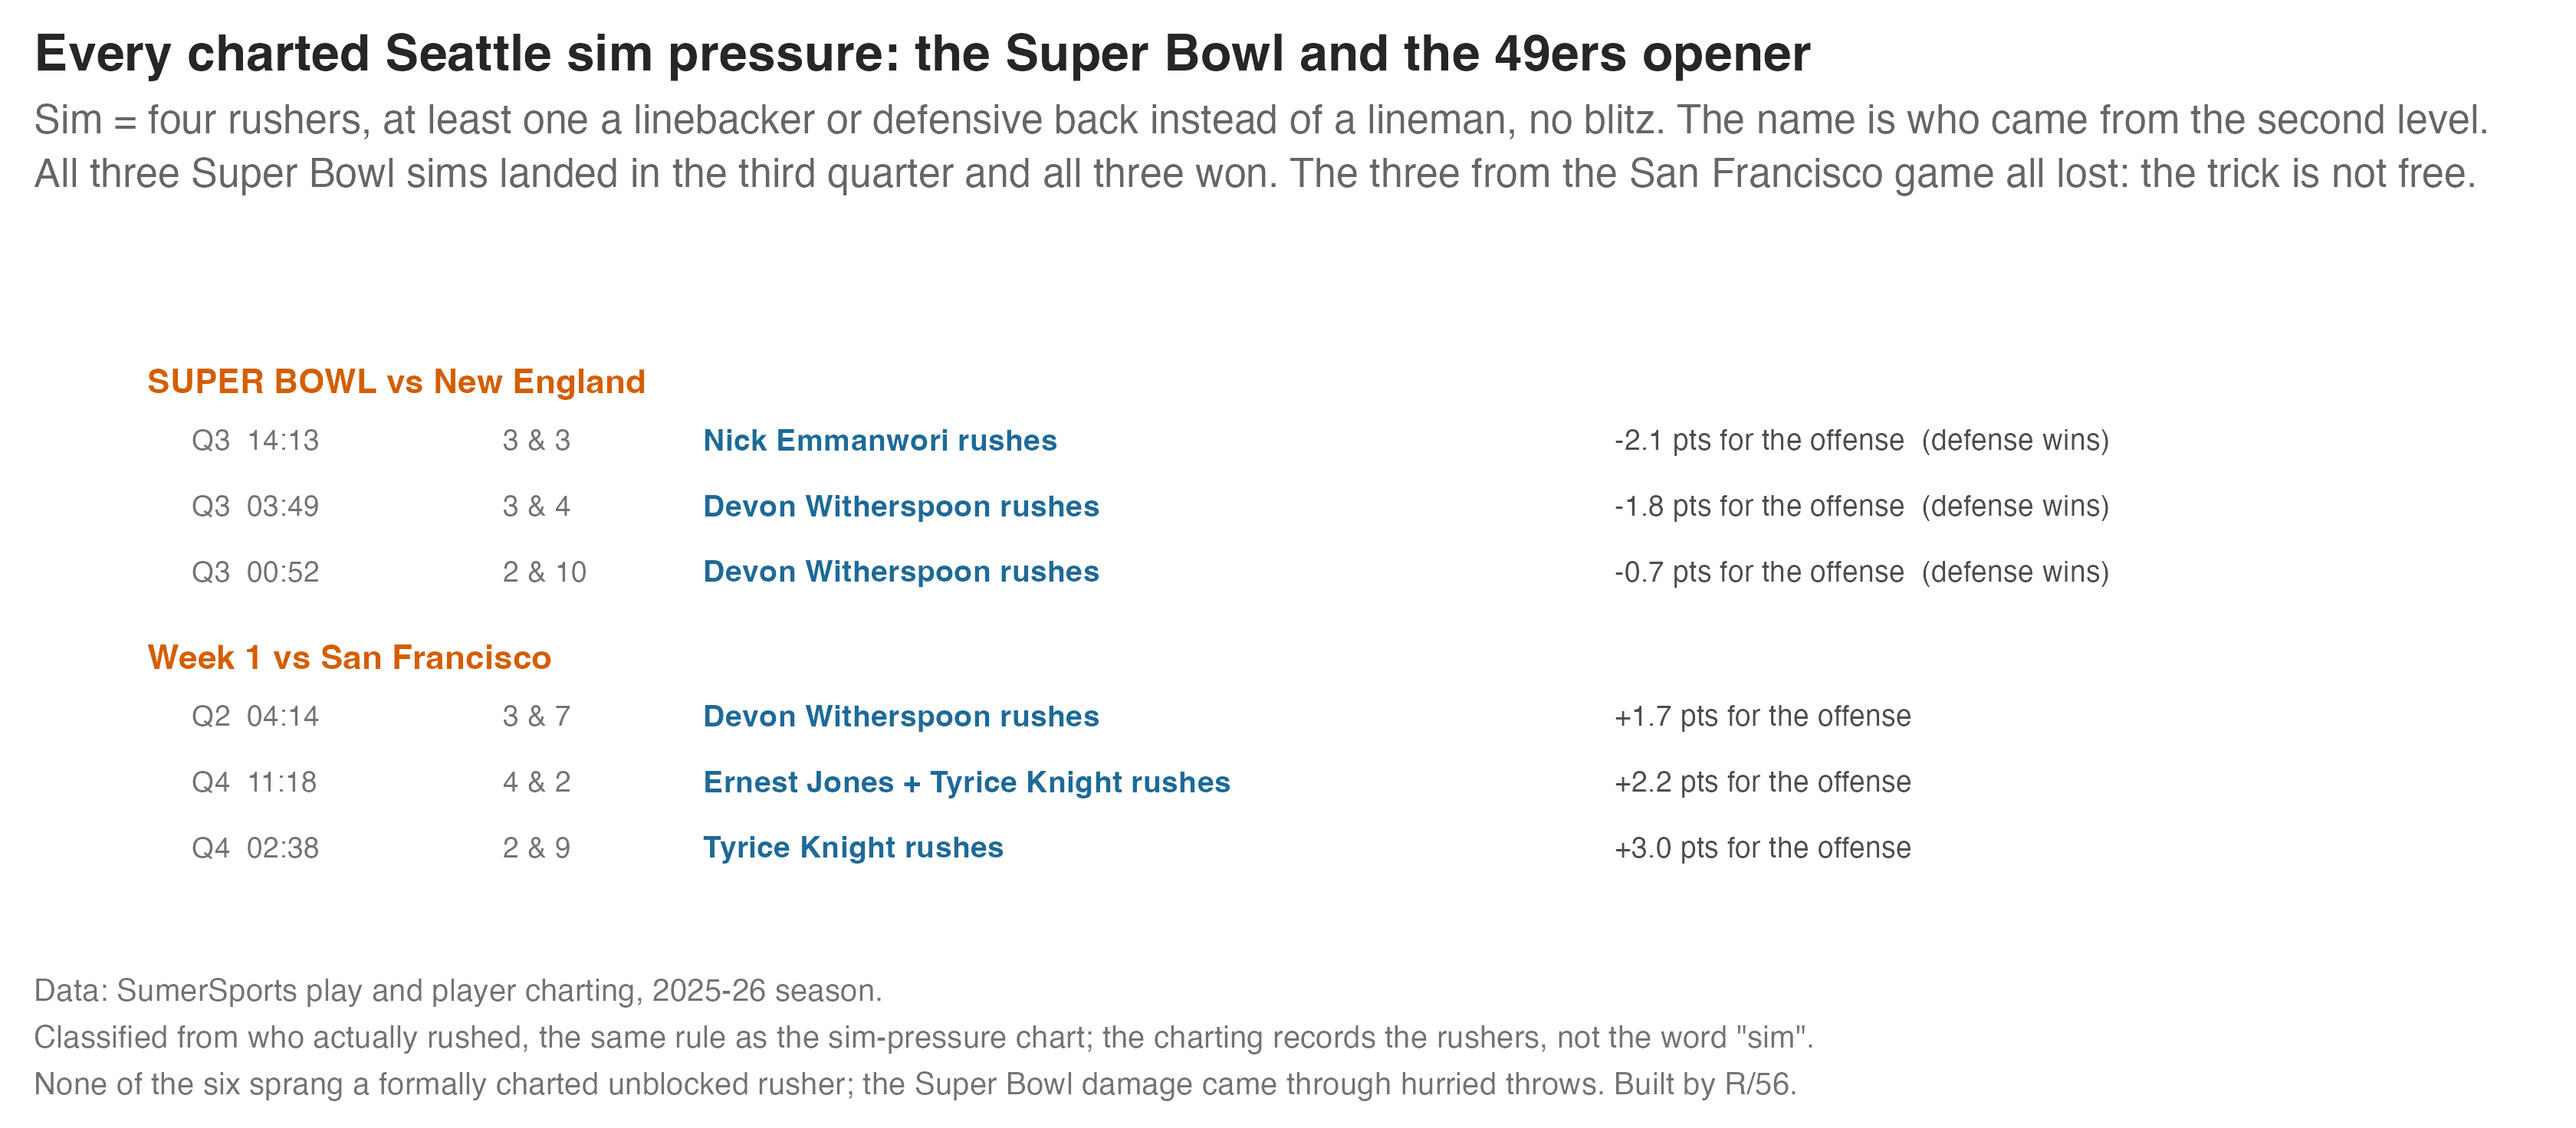
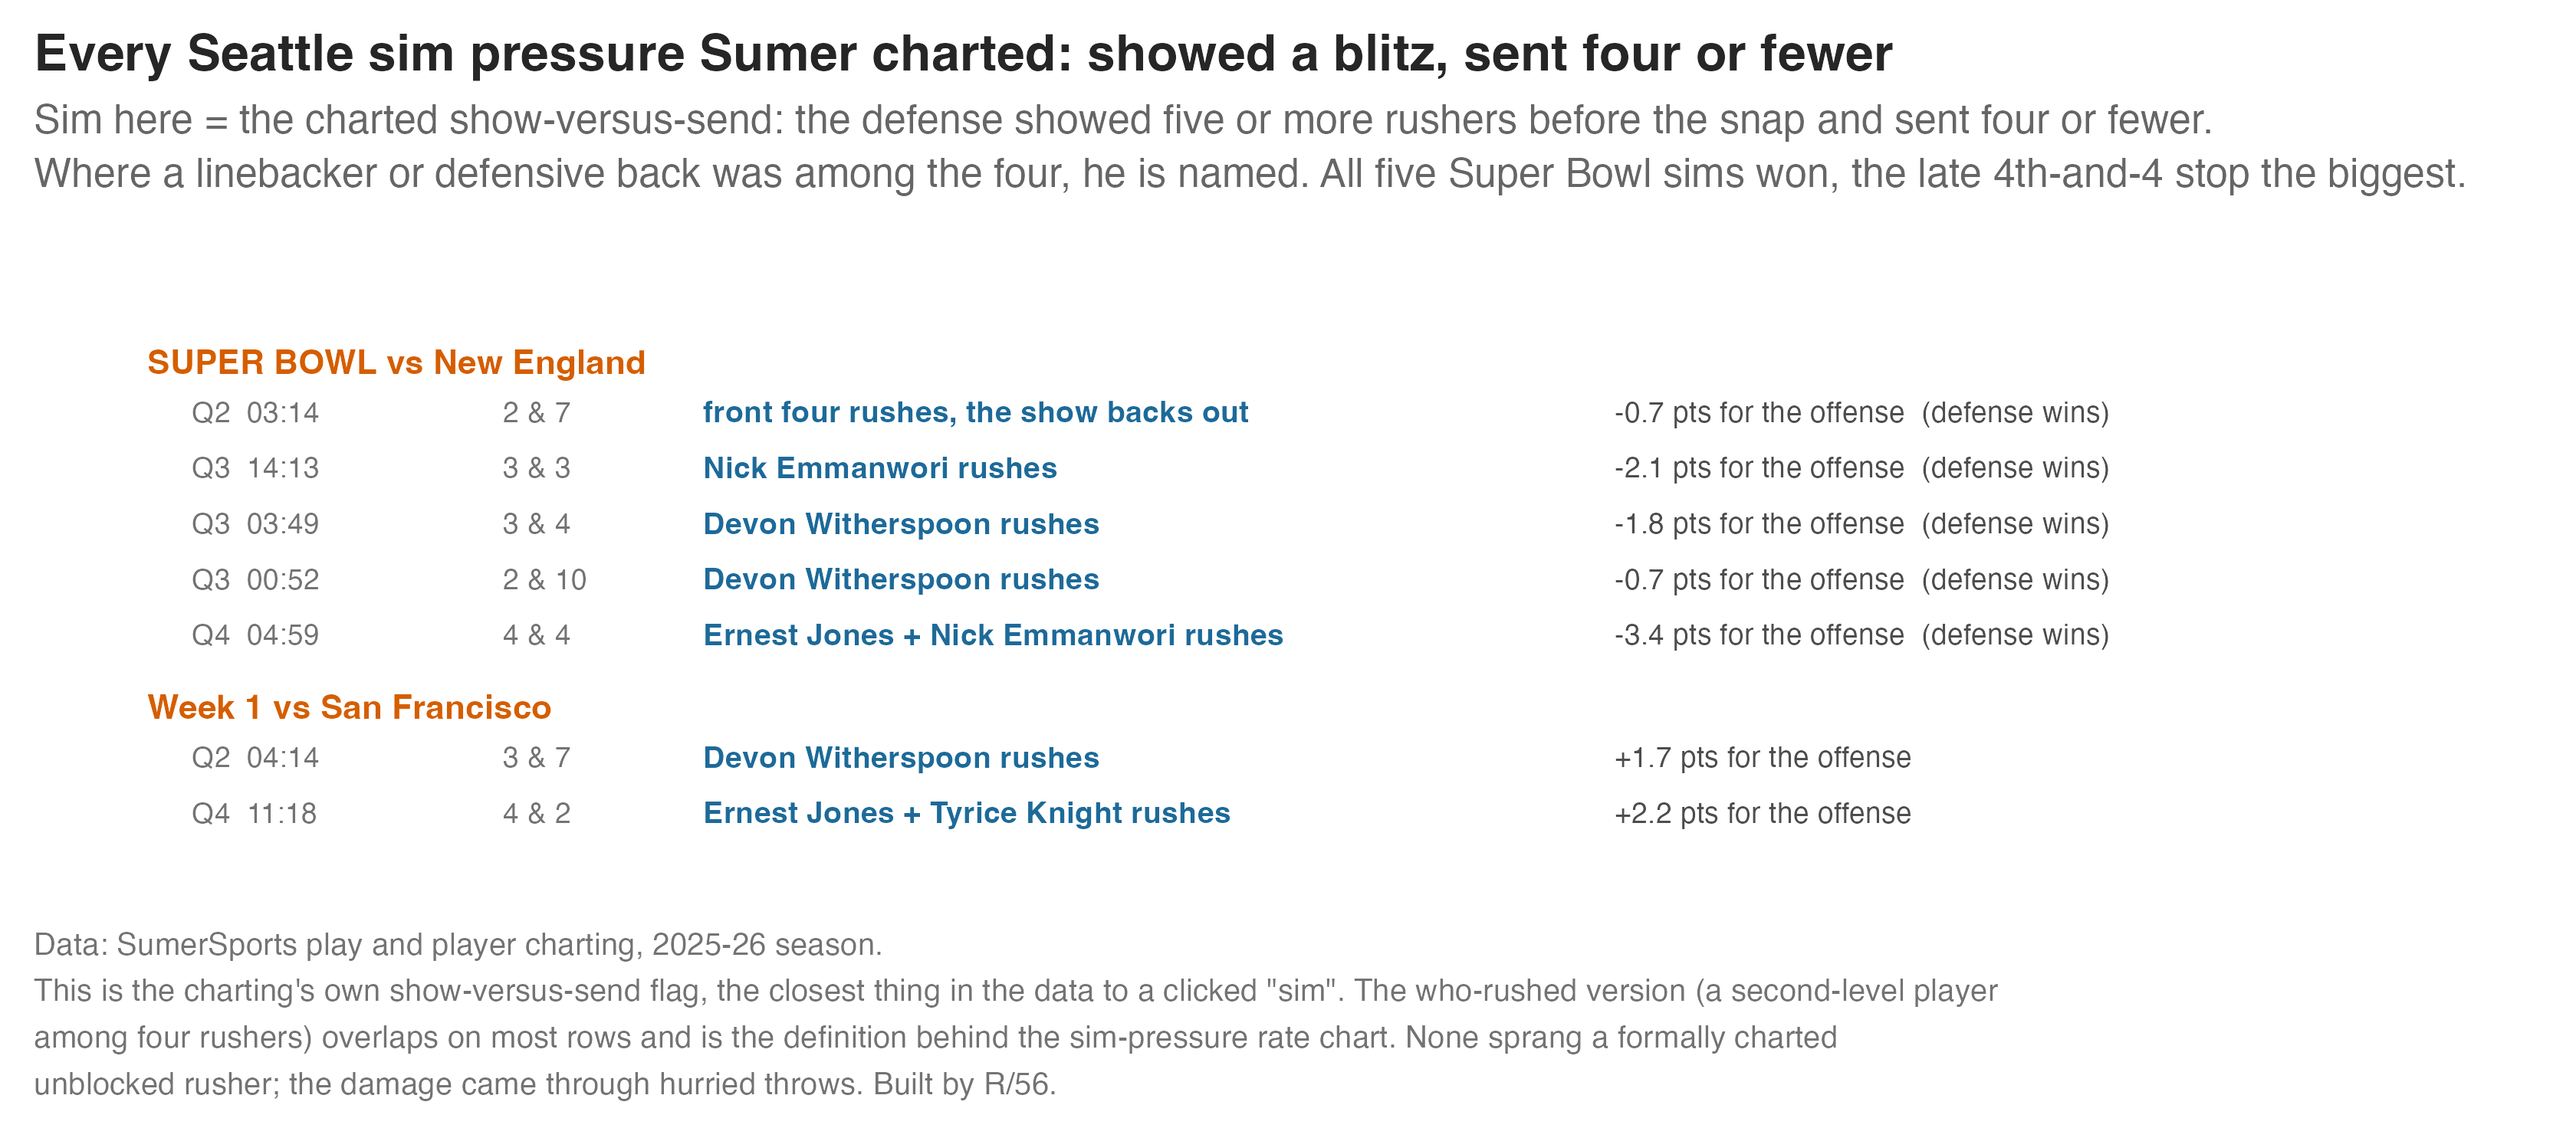
Sim reel rebuilt on Sumer's charted show-vs-send flag: five Super Bowl sims, all wins

diff --git a/docs/index.html b/docs/index.html
@@ -161,12 +161,12 @@
     <div class="card">
       <div class="card-head"><span class="t">"You have a SIM pressure from the Super Bowl or Niners game?"</span><span class="pill ship">Six, clock-stamped</span></div>
       <p class="row"><span class="lab">Michael:</span> "You have a SIM pressure from the Super Bowl or Niners game? Like one that was clicked in the Sumur data as SIM"</p>
-      <p class="row found"><span class="lab">Six charted sims in those games, and the Super Bowl three are the reel.</span> All three of his Super Bowl sim pressures came in the third quarter, and all three won: Nick Emmanwori rushing on 3rd-and-3 at 14:13 (2.1 points taken off New England's drive, the game's biggest sim), Devon Witherspoon on 3rd-and-4 at 3:49 (1.8 points), and Witherspoon again on 2nd-and-10 at 0:52. The week 1 San Francisco game carries the other three (Witherspoon on 3rd-and-7 in Q2; Ernest Jones and Tyrice Knight together on 4th-and-2 in Q4; Knight on 2nd-and-9), and those all lost, a reminder the trick is not free. Definition as everywhere on this board: four rushers, at least one a linebacker or defensive back, no blitz.</p>
+      <p class="row found"><span class="lab">Sumer does chart it, as show-versus-send: showed five or more, sent four or fewer.</span> By that charted flag, the Super Bowl had FIVE Seattle sims and all five won: a Q2 2nd-and-7 where the whole show backed out, Nick Emmanwori rushing on 3rd-and-3 (2.1 points off New England's drive), Devon Witherspoon on 3rd-and-4 and again on 2nd-and-10, and the biggest, Ernest Jones and Emmanwori together on the 4th-and-4 stop at Q4 4:59, worth 3.4 points. The week 1 San Francisco game carries two more, and both lost, a reminder the trick is not free.</p>
       <figure>
         <img src="figures/sim_reel.png" alt="Film card listing all six charted Seattle sim pressures from the Super Bowl and the 49ers opener with quarter, clock, down and distance, the second-level rusher, and the points result.">
         <figcaption>The sim reel, clock-stamped for clipping. Built by R/56.</figcaption>
       </figure>
-      <p class="row"><span class="lab">The catch:</span> "sim" here is our classification from who actually rushed (Sumer charts the rushers, not the label "sim"), and none of the six sprang a formally charted unblocked rusher; the Super Bowl damage came through hurried throws, not free runners.</p>
+      <p class="row"><span class="lab">The catch:</span> the flag is Sumer's show-versus-send charting (five or more shown, four or fewer sent), the closest thing in the data to a clicked "sim"; none of the seven sprang a formally charted unblocked rusher; the Super Bowl damage came through hurried throws, not free runners.</p>
     </div>
 
     <div class="card">
